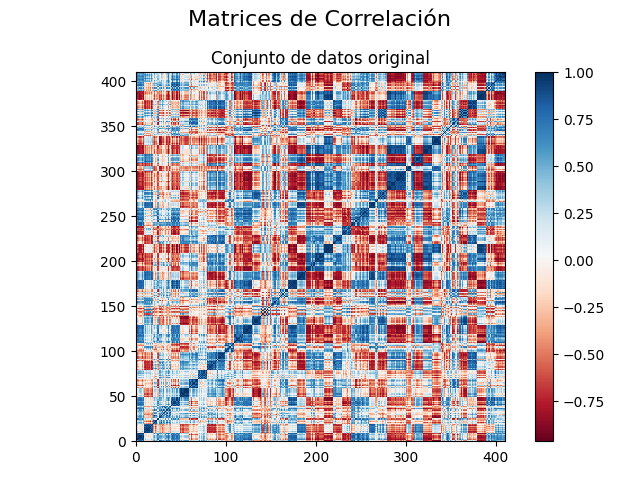
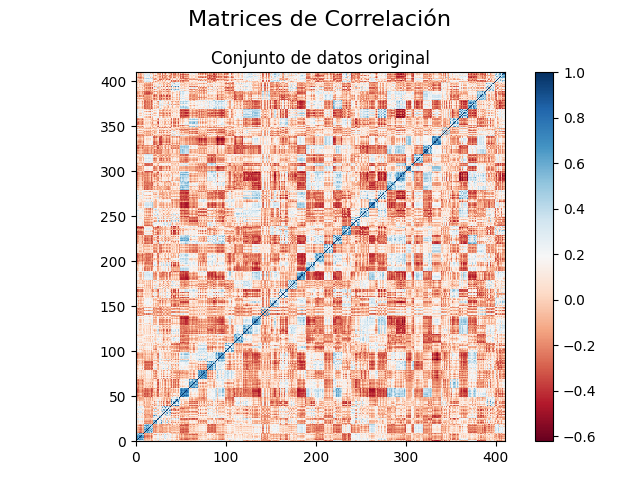
Agrego codigo para graficar metricas de similaridad

diff --git a/src/python/main.py b/src/python/main.py
@@ -112,7 +112,7 @@ def graficarAutovalores():
 
 def generarEigenFaces(imagenes, k):
     # PCA:
-    # plotter.graficarEigenFacesPCA("covarianza_eigenVectors.csv", 10)
+    plotter.graficarEigenFacesPCA("covarianza_eigenVectors.csv", 10)
     # 2DPCA
     features, autovectores = TDPCA(imagenes, k, False, "covarianza_2dpca_eigenVectors.csv", True)
     plotter.graficarEigenFacesTDPCA(features[0], autovectores, 10)
@@ -155,12 +155,13 @@ def calcularMetricas(M):
     divisor_distinto = (r * c) - divisor_mismo
 
     for i in range(r-1, -1, -1):
-        offset = contador * 10
-        for j in range(c):
-            if offset <= j < (offset + 10):
-                suma_mismo += M[i][j]
+        offset = c - contador * 10
+        for j in range(c-1, -1, -1):
+            coef = M[i][j]
+            if offset > j >= (offset - 10):
+                suma_mismo += coef
             else:
-                suma_distinto += M[i][j]
+                suma_distinto += coef
         if i % 10 == 0:
             contador += 1
 
@@ -179,6 +180,35 @@ def errorPcaVsTdpca(imagenes):
         imagenes_procesadas["tdpca"][k] = imagenes_tdpca
     plotter.graficarErrorCompresion(imagenes, imagenes_procesadas, "Error de compresión PCA vs 2DPCA")
 
+
+def visualizarCorrelacion(imagenes, generarMatrices=False):
+    if generarMatrices:
+        generarCorrelacion(imagenes, [50, 400], [5, 40])
+
+    filenames = ["correlacion", "correlacion_pca_50", "correlacion_pca_400", "correlacion_2dpca_5",
+                 "correlacion_2dpca_40"]
+    labels = ["Conjunto de datos original", "Datos procesados con PCA para k=50", "Datos procesados con PCA para k=400",
+              "Datos procesados con 2DPCA para k=5", "Datos procesados con 2DPCA para k=40"]
+
+    data = IO.leerMatricesCorrelacion(filenames)
+    for matriz, label, filename in zip(data, labels, filenames):
+        plotter.graficarCorrelacion(matriz, label, filename)
+
+
+def compararMetricas(imagenes, metodo, rango, generarMatrices=False):
+    if generarMatrices:
+        if (metodo == "pca"):
+            generarCorrelacion(imagenes, rango, [])
+        else:
+            generarCorrelacion(imagenes, [], rango)
+    filenames = ["correlacion_" + metodo + "_" + str(x) for x in rango]
+    matrices = IO.leerMatricesCorrelacion(filenames)
+    data = {}
+    for m, k in zip(matrices, rango):
+        mismo, distinto = calcularMetricas(m)
+        data[k] = [mismo, distinto]
+    plotter.graficarMetricasSimiliaridad(data, "Metricas " + metodo)
+
 def errorSetReducido(imagenes, metodo, ks):
     imagenes_procesadas = {"completo": {}, "reducido": {}}
     for k in ks:
@@ -196,8 +226,8 @@ if __name__ == '__main__':
     k_2dpca = config.k_2dpca
 
     # Ejecutar PCA y 2DPCA para luego utilizar resultados
-    # PCA(imagenes, k_pca, True)
-    # TDPCA(imagenes, k_2dpca, True)
+    PCA(imagenes, k_pca, True)
+    TDPCA(imagenes, k_2dpca, True)
 
     # -------- EXPERIMENTACION -------- #
     # Ejercicio 2
@@ -212,17 +242,11 @@ if __name__ == '__main__':
 
     # Ejercicio 3
     # a) Visualizar matriz de correlación
-    generarCorrelacion(imagenes, [50, 400], [5,40])
-    filenames = ["correlacion", "correlacion_pca_50", "correlacion_pca_400", "correlacion_2dpca_5", "correlacion_2dpca_40"]
-    data, labels = IO.leerMatricesCorrelacion(filenames)
-    for matriz, label, filename in zip(data, labels, filenames):
-        plotter.graficarCorrelacion(matriz, label, filename)
+    visualizarCorrelacion(imagenes, False)
 
     # b) Metricas de similaridad
-    generarCorrelacion(imagenes, list(range(10, 100, 10)), list(range(5, 45, 5)))
-    data, labels = data, labels = IO.leerMatricesCorrelacion(filenames)
-    mismo, distinto = calcularMetricas(data[0])
-    plotter.graficarMetricasSimiliaridad(data, labels)
+    compararMetricas(imagenes, "pca", [*range(50, 401, 50)], True)
+    compararMetricas(imagenes, "2dpca", [*range(5, 41, 5)], True)
 
     # c) Error de compresion
     errorPcaVsTdpca(imagenes)

diff --git a/src/python/plotter.py b/src/python/plotter.py
@@ -1,5 +1,5 @@
 import numpy as np
-import seaborn as sns
+import pandas as pd
 import IO
 import matplotlib.pyplot as plt
 
@@ -41,7 +41,6 @@ def graficarCorrelacion(matrix, label, filename):
     fig.colorbar(heatmap, ax=ax)
     plt.tight_layout()
     plt.savefig('resultados/ejercicio_3/item_a/' + filename)
-    #plt.show()
     plt.clf()
 
 def graficarEigenFacesPCA(filename, cantidad):
@@ -81,7 +80,20 @@ def graficarErrorCompresion(imagenes, imagenes_procesadas, titulo, metodo1="pca"
     plt.xlabel('Valores de k')
     plt.ylabel('Error')
     plt.savefig('resultados/ejercicio_3/item_c/' + titulo)
-    plt.show()
+    plt.clf()
+
+def graficarMetricasSimiliaridad(data, titulo):
+    df = pd.DataFrame(data).T
+
+    _, ax = plt.subplots()
+    df.plot(kind="bar", ax=ax)
+
+    plt.title(titulo)
+    plt.xlabel('Valores de k')
+    plt.ylabel('Valor metrica')
+    ax.legend(["Mismo", "Distinto"]);
+    plt.savefig('resultados/ejercicio_3/item_b/' + titulo)
+    plt.clf()
 
 def calcularErrorCompresion(imagenes, imagenes_pca):
     error = np.zeros(len(imagenes))

diff --git a/src/python/IO.py b/src/python/IO.py
@@ -32,17 +32,12 @@ def leerMatriz(path, filename, cols=None):
 
 
 def leerMatricesCorrelacion(filenames):
-    labels = ["Conjunto de datos original", "Datos procesados con PCA para k=50", "Datos procesados con PCA para k=400", "Datos procesados con 2DPCA para k=5", "Datos procesados con 2DPCA para k=40"]
     data = []
     for i, filename in enumerate(filenames):
-        # print("Leyendo ", filename)
         data.append(leerMatrizCorrelacion("matrices/", filename + ".txt"))
-    return data, labels
+    return data
 
 
 def leerMatrizCorrelacion(path, filename):
     matrix = open(path + filename)
-    # return pd.read_csv(matrix, delimiter=",", dtype=None).T.values[:-1]
-    input = np.loadtxt(matrix, delimiter=' ')
-    return input
-    # return np.genfromtxt(matrix, delimiter=" ", names=True, dtype=None, unpack=True)
+    return np.loadtxt(matrix, delimiter=' ')
